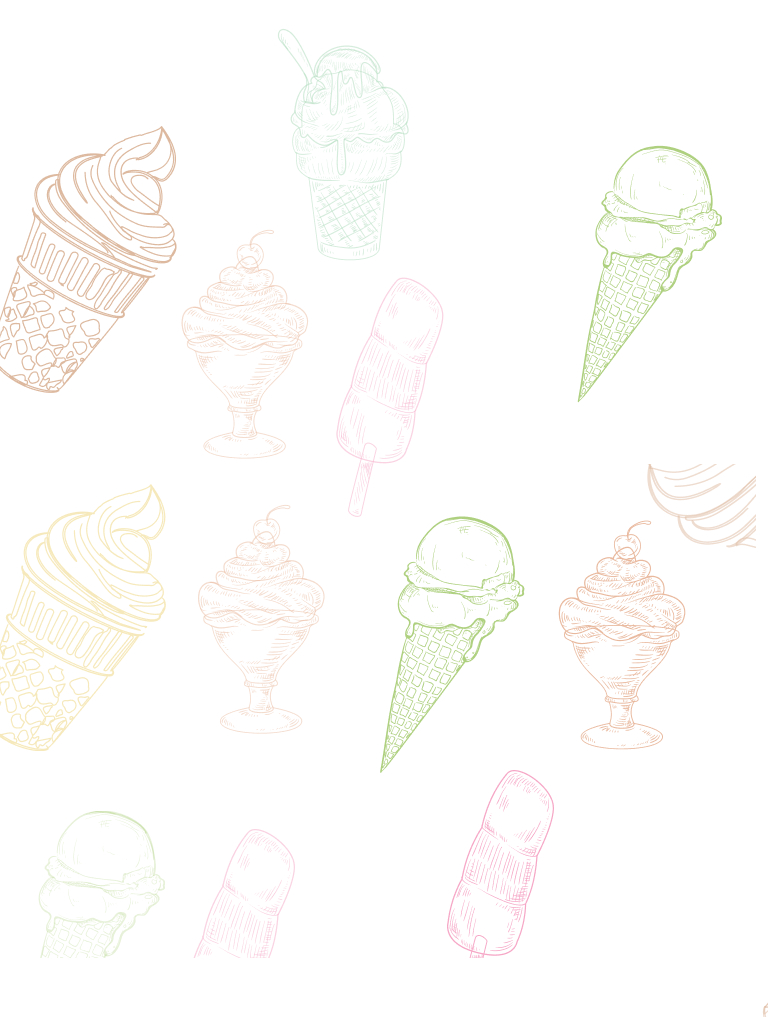
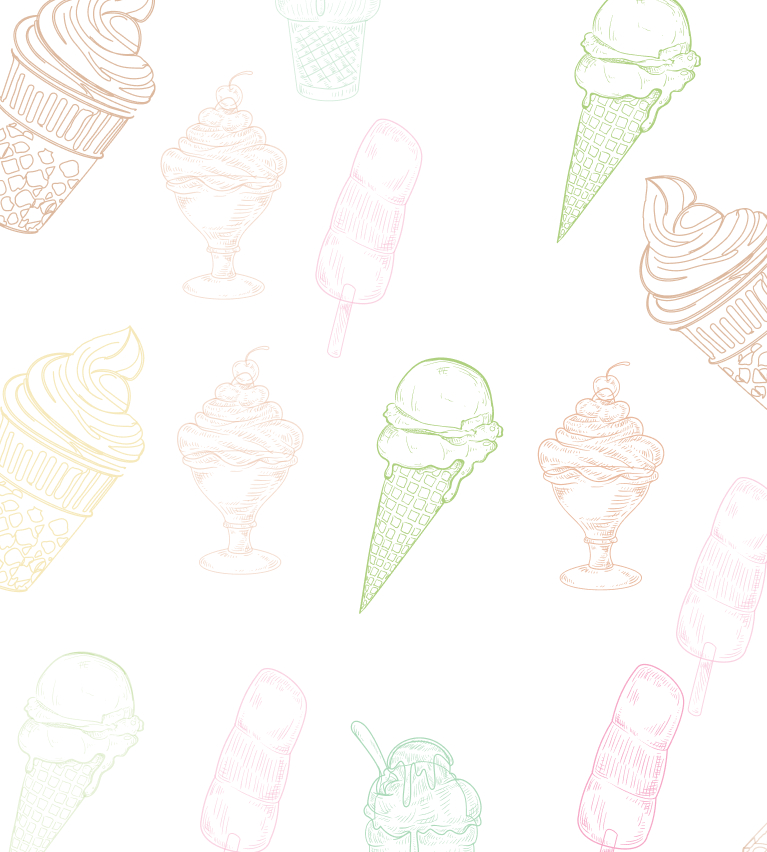
bg1x

diff --git a/src/partials/products.html b/src/partials/products.html
@@ -9,7 +9,7 @@
                 <p class="card-list__text">Soft ice cream with a delicate taste. Made with milk, cream, sugar and natural stabilizer</p>
                 <button  class="card-list__button" type="button">
                     <svg width="40" height="16">
-                        <use href="./images/icons.svg#icon-arrow-mod"></use>
+                        <use href="./images/icons.svg#icon-arrow"></use>
                     </svg>
                 </button>
             </li> 
@@ -31,7 +31,7 @@
                 </p>
                 <button class="card-list__button" type="button">
                     <svg width="40" height="16">
-                        <use href="./images/icons.svg#icon-arrow-mod"></use>
+                        <use href="./images/icons.svg#icon-arrow"></use>
                     </svg>
                 </button>
             </li>

diff --git a/src/sass/layouts/_products.scss b/src/sass/layouts/_products.scss
@@ -4,13 +4,11 @@
         @content;
     }
 }
-
 @mixin tablet {
     @media screen and (min-width: 768px) {
         @content;
     }
 }
-
 @mixin desktop {
     @media screen and (min-width: 1200px) {
         @content;
@@ -23,6 +21,20 @@
 // ********** products
 .section__product {
     margin: 0 auto;
+}
+
+.section__product {
+    background-image: url(../images/product_bg-mob-1x.jpg);
+    background-repeat: auto;
+    background-position: center top;
+    background-size: cover;
+
+    @include tablet {
+        background-image: url(../images/product_bg-tab-1x.jpg);
+    }
+    @include desktop() {
+        background-image: url(../images/product_bg-desk-1x.jpg);
+    }
 }
 
 .product {
